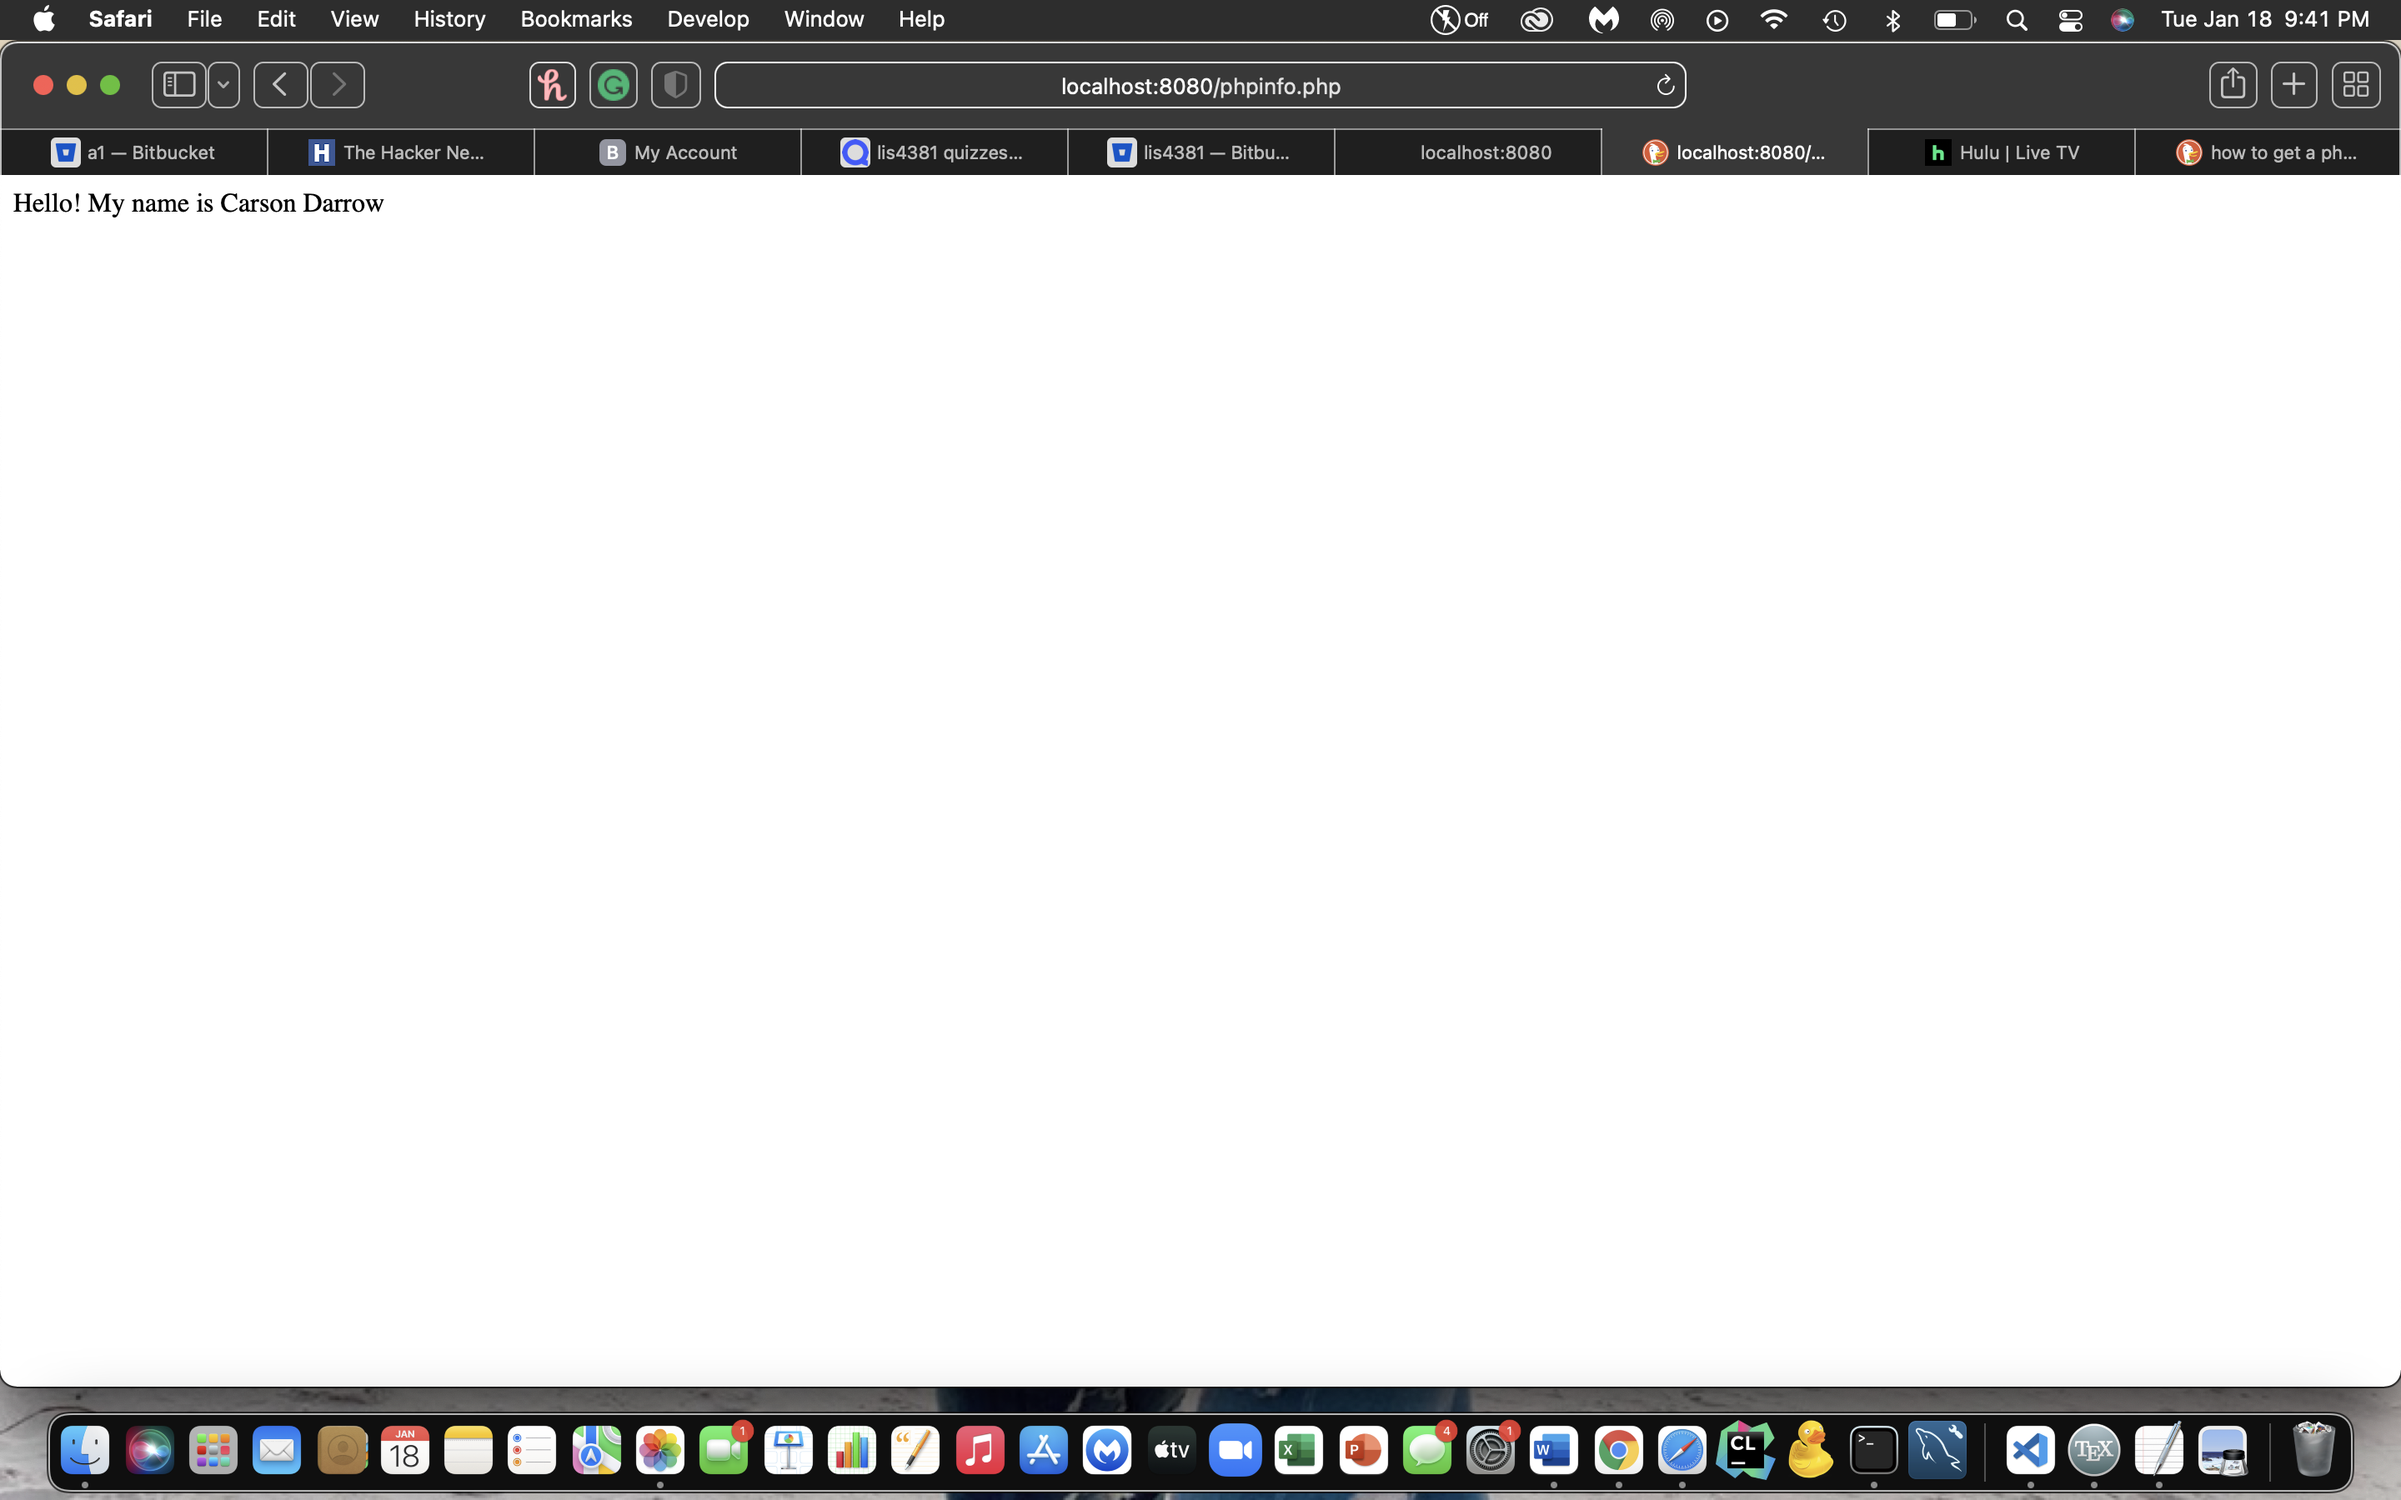
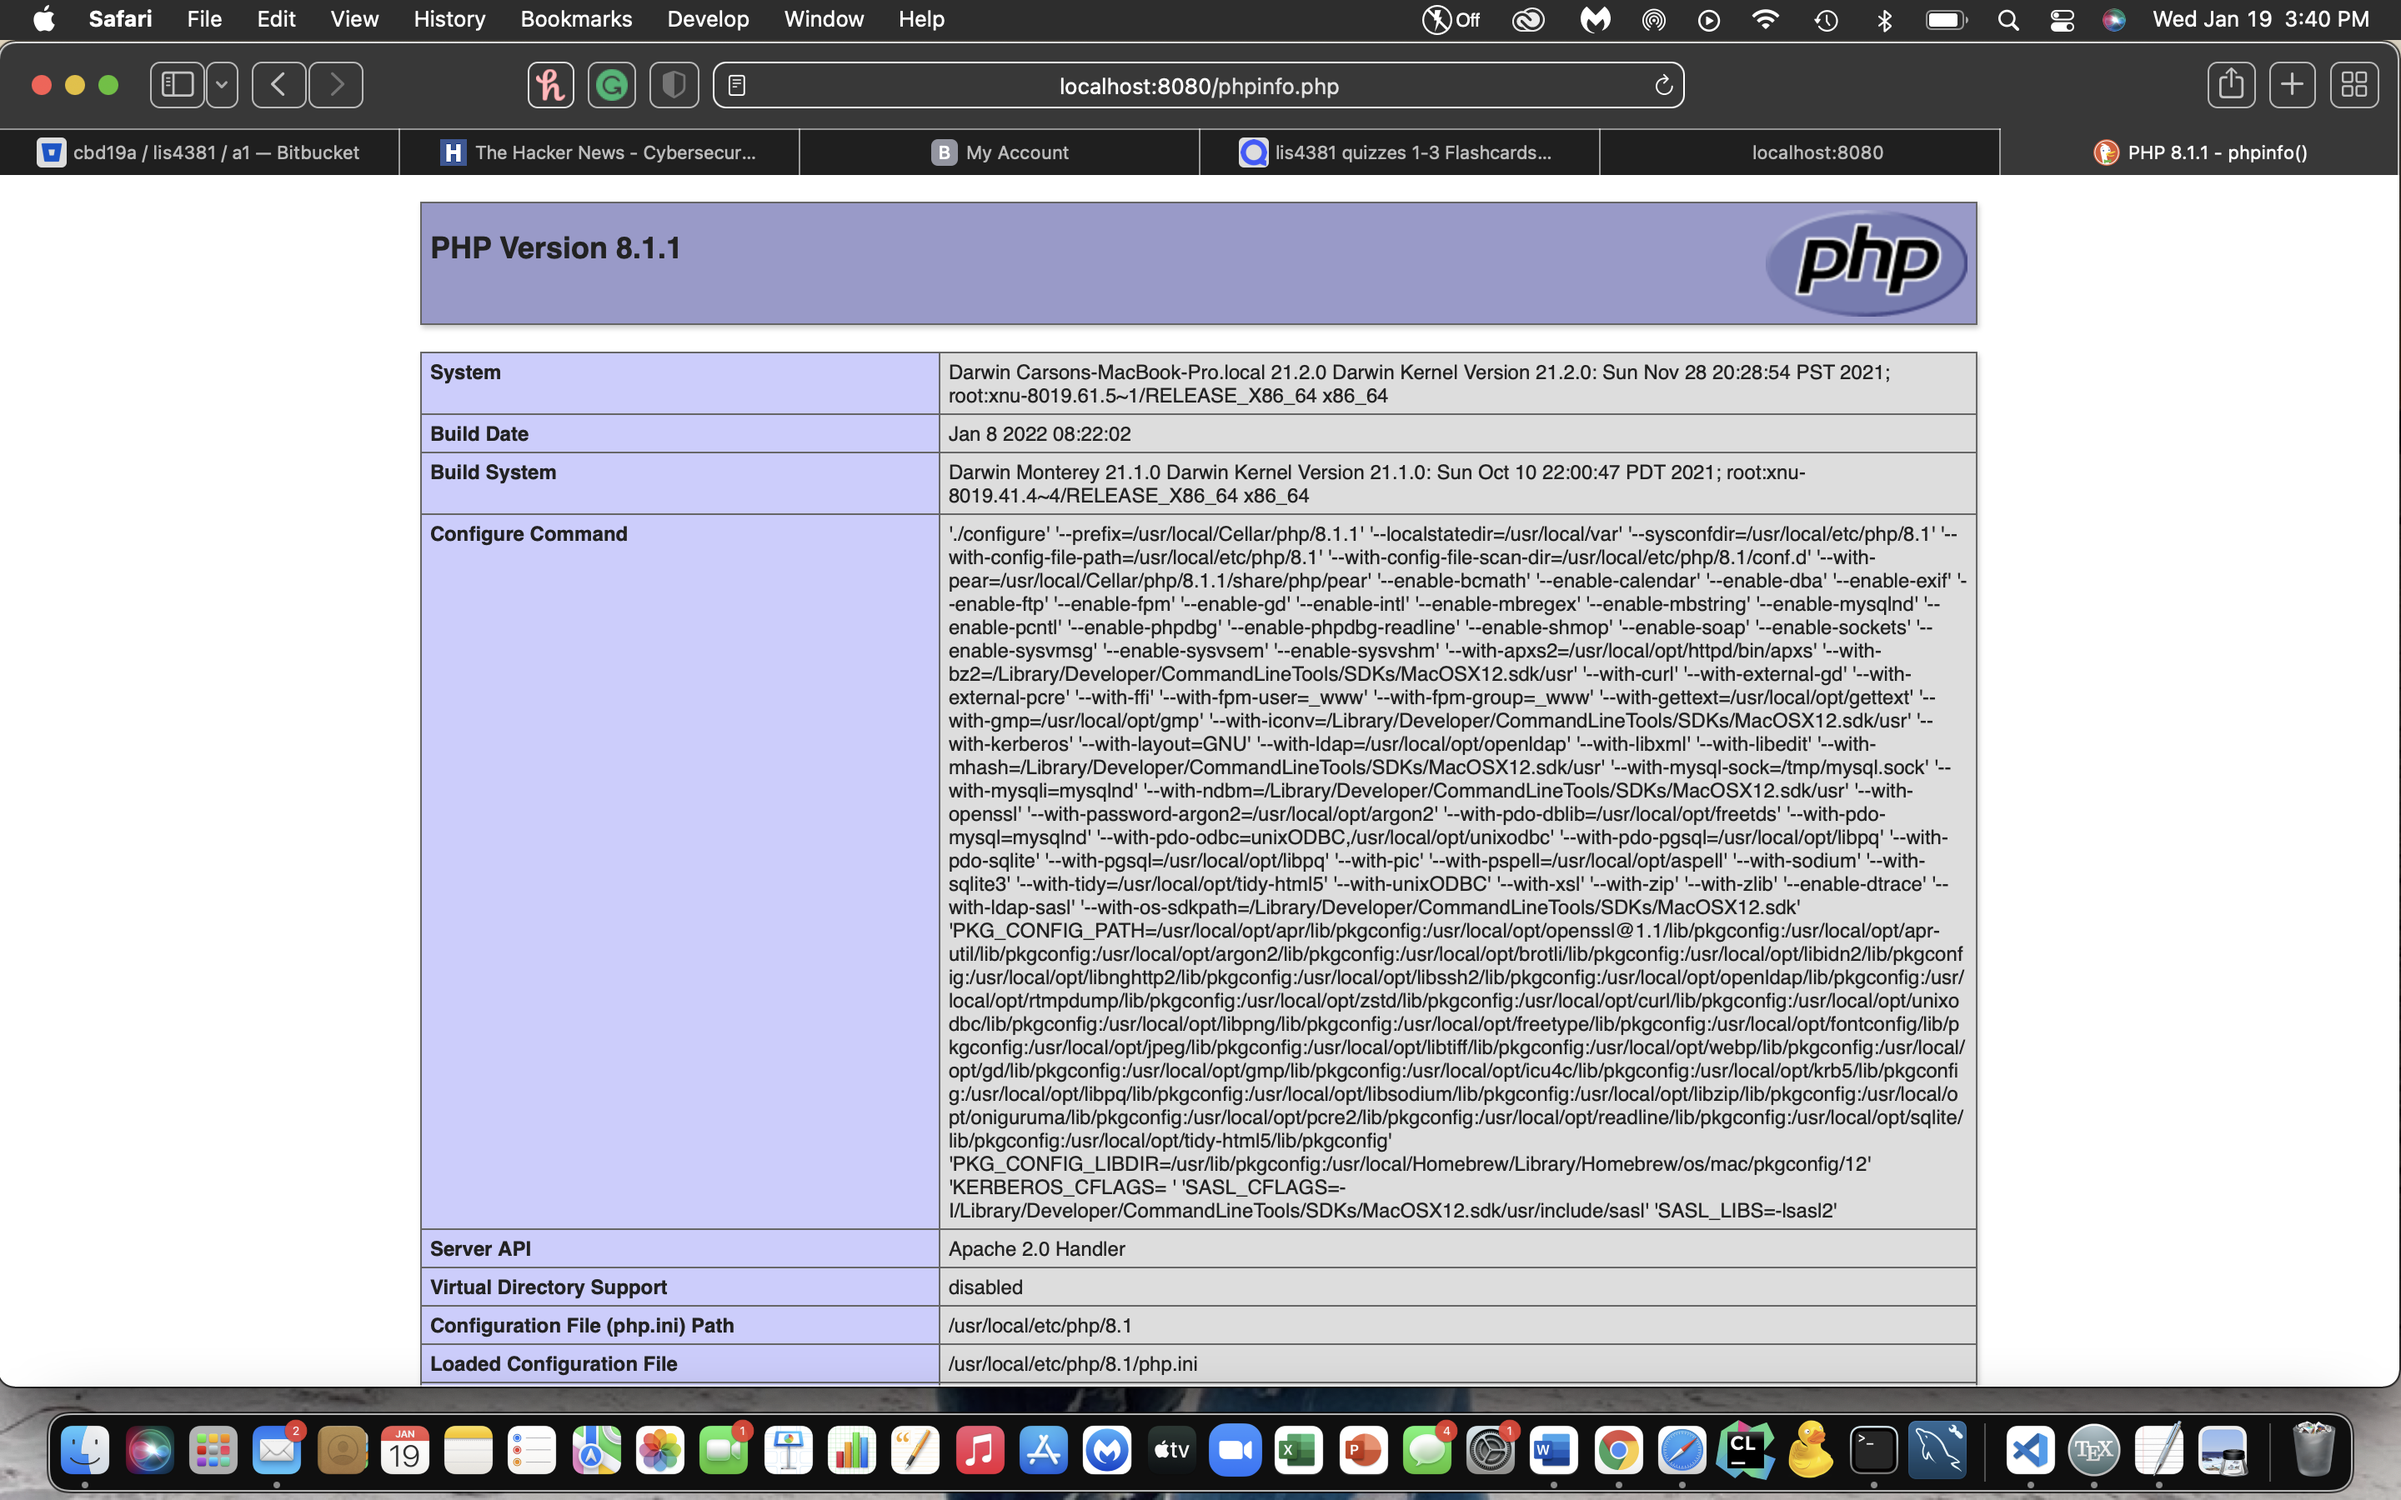
changed main READ.ME

diff --git a/a1/README.md b/a1/README.md
@@ -39,7 +39,7 @@ Three Parts:
 
 #### Assignment Screenshots:
 
-*Screenshot of Apache running http://localhost*:
+*Screenshot of Apache running http://localhost:8080/phpinfo.php*:
 
 ![AMPPS Installation Screenshot](img/apache.png)
 
